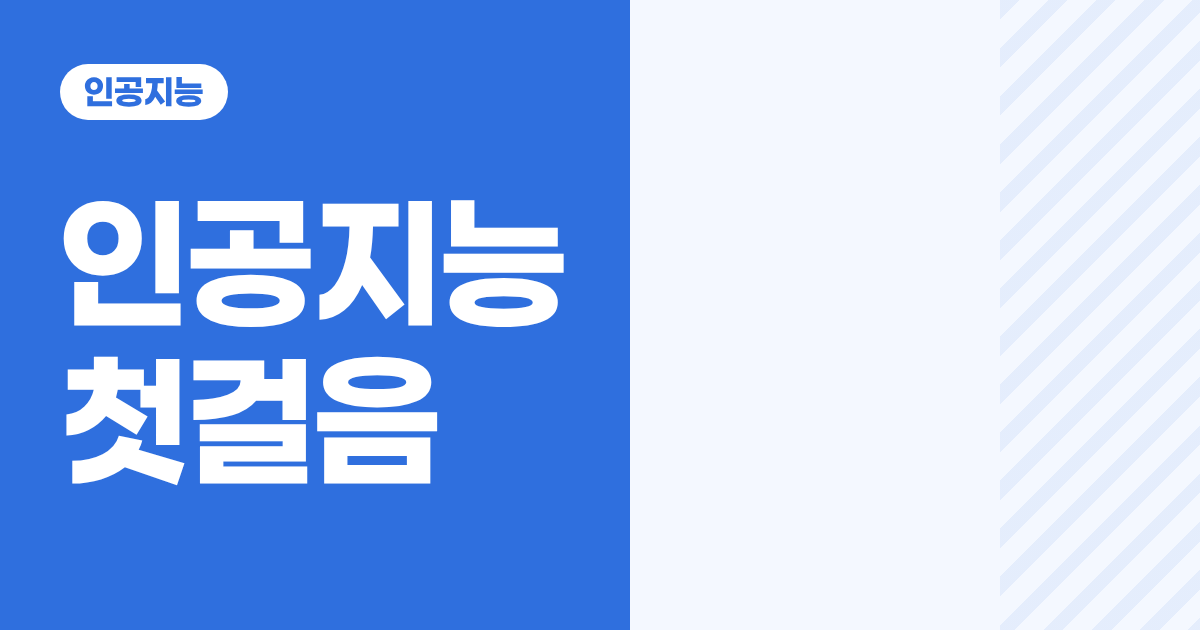
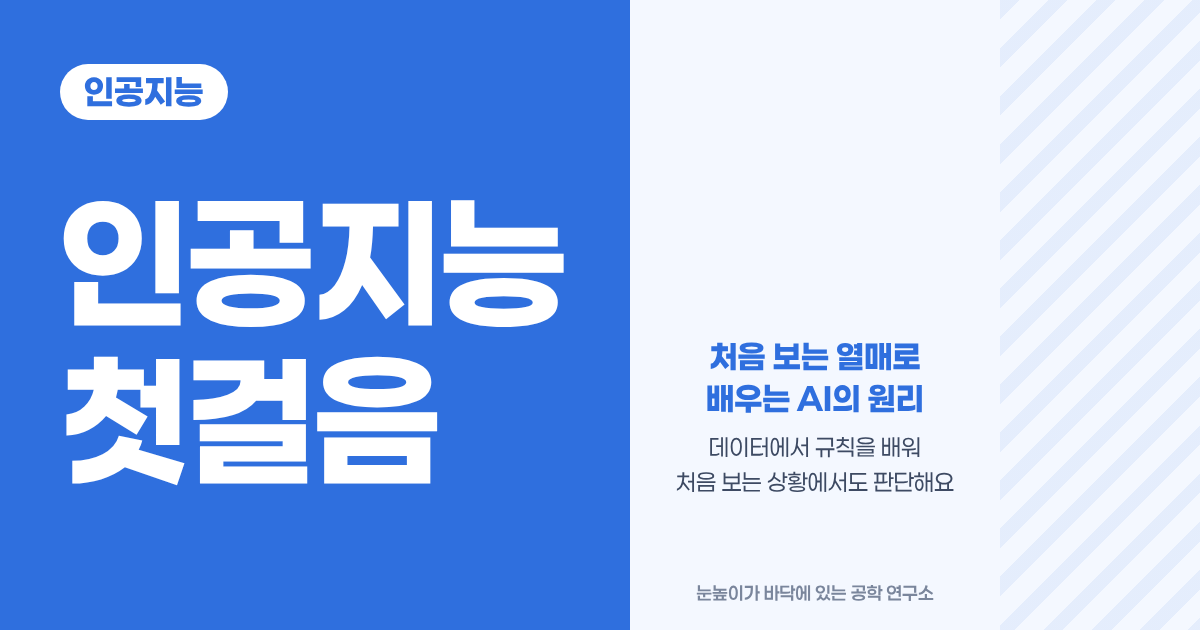
표지 시험(ai-110): 진단: 그림만 숨김
Claude-Session: https://claude.ai/code/session_01DR6nsVY4wjnLELXzx7ubGR

Changed region(s): [[0.5858, 0.5429, 0.7708, 0.6635], [0.555, 0.6937, 0.8017, 0.7841], [0.5858, 0.9048, 0.7708, 0.9651]]

diff --git a/tools/cover.py b/tools/cover.py
@@ -132,8 +132,8 @@ body{{width:1200px;height:630px;font-family:P;background:{bg};position:relative;
 .tw{{flex:1;display:flex;align-items:center}}
 h1{{font-weight:800;font-size:150px;line-height:1.08;color:#fff;letter-spacing:-2px;white-space:nowrap}}
 .edge{{position:absolute;left:1000px;top:0;width:200px;height:630px;background:repeating-linear-gradient(135deg,{c}14 0 14px,transparent 14px 34px)}}
-.rt{{visibility:hidden;position:absolute;left:655px;top:44px;width:320px;height:560px;display:flex;flex-direction:column;text-align:center}}
-svg{{align-self:center;opacity:.55;filter:saturate(.45)}}
+.rt{{position:absolute;left:655px;top:44px;width:320px;height:560px;display:flex;flex-direction:column;text-align:center}}
+svg{{align-self:center;visibility:hidden}}
 h2{{margin-top:22px;font-weight:800;font-size:32px;line-height:1.3;color:{c};text-wrap:balance}}
 .quote{{margin-top:12px;font-size:23px;line-height:1.5;color:#3d4a63}}
 .blog{{margin-top:auto;font-size:18px;color:#7a869c;font-weight:600}}
